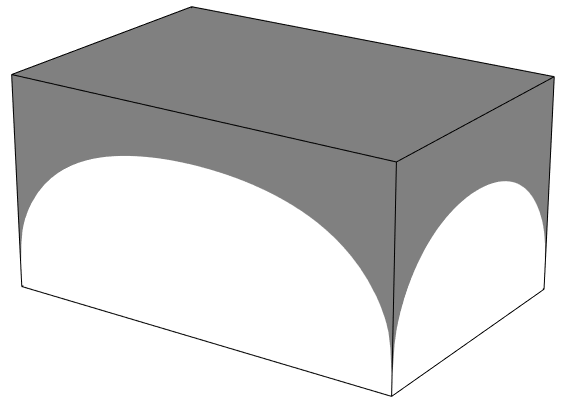
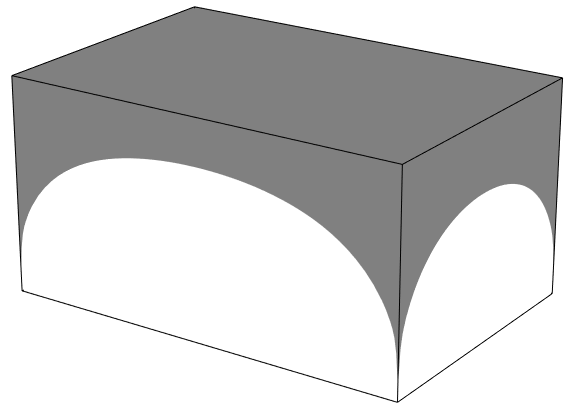
Introduction: consistentise dip-coating figure
See yawnoc/phd-code@5fbcb6fd39c96.

diff --git a/introduction.tex b/introduction.tex
@@ -360,7 +360,7 @@ a balance between the forces of cohesion (liquid--liquid attraction),
 adhesion (liquid--wall attraction), and gravity.
 
 \begin{figure}
-  \newcommand*{\subfigurewidth}{5cm}
+  \newcommand*{\subfigurewidth}{0.35\textwidth}
   \centering
   \hspace*{\fill}
   \begin{subfigure}[t]{\subfigurewidth}
